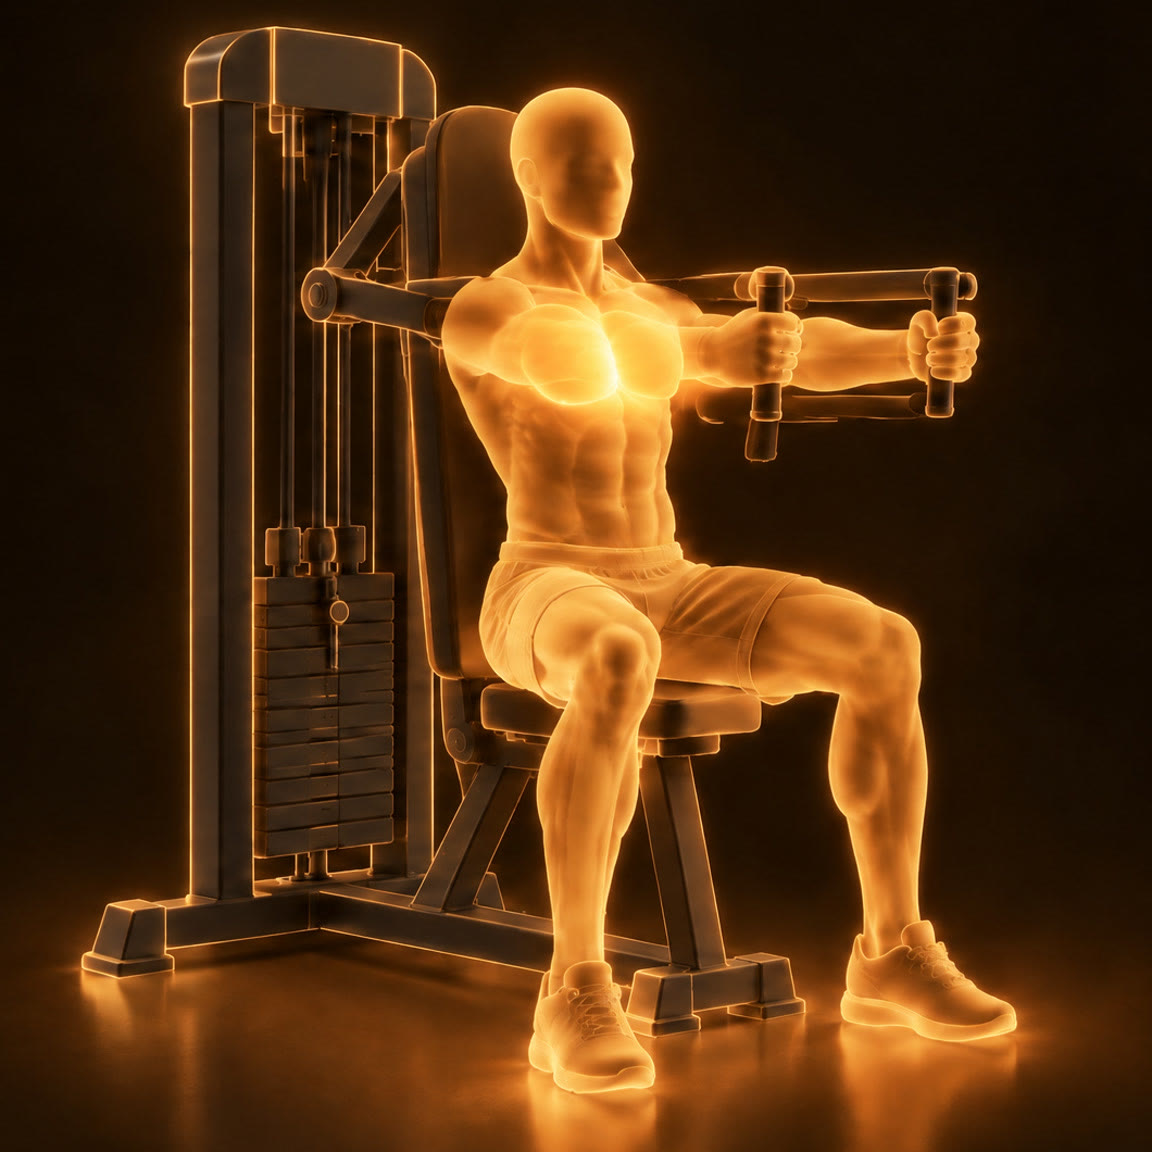
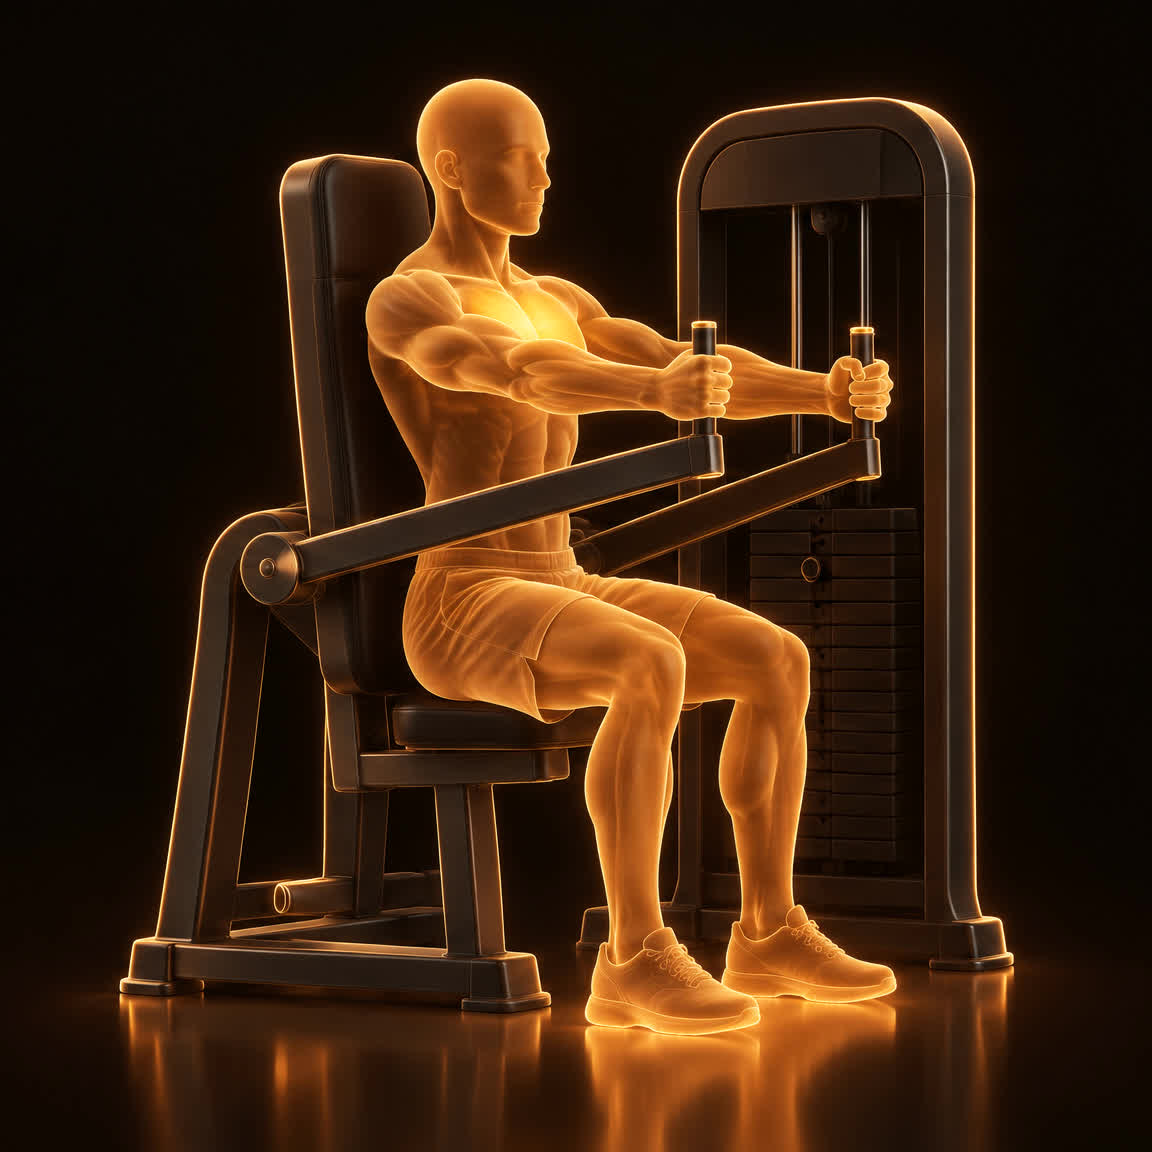
Test of the saved figure (Higgsfield element amber-figure, made from the three 3 Nov frames): x100 one-arm cable curl and x7 seated chest press, both of which failed before. 2 credits. Free hue/saturation pass to EARLY.

diff --git a/exercise-sheets/unify.html b/exercise-sheets/unify.html
@@ -2,9 +2,9 @@
 <style>:root{--bg:#120d07;--fg:#f3e6cf;--mut:#b9a888;--line:#3a2f20}*{box-sizing:border-box}body{margin:0;padding:16px;background:var(--bg);color:var(--fg);font:15px/1.5 system-ui,sans-serif;overflow-x:hidden}
 h1{font-size:21px;margin:24px 0 4px}h1:first-child{margin-top:0}p{color:var(--mut);margin:0 0 12px}h2{font-size:17px;margin:22px 0 8px;border-top:1px solid var(--line);padding-top:12px;overflow-wrap:anywhere}h2 small{color:var(--mut);font-weight:400;font-size:13px}
 .row{display:grid;grid-template-columns:minmax(0,1fr) minmax(0,1fr);gap:8px}.one{max-width:420px}figure{margin:0;min-width:0}img{max-width:100%;width:100%;display:block;border-radius:6px}figcaption{color:var(--mut);font-size:13px;margin-top:2px}</style></head><body>
-<h1>מחכה לאישור: x7</h1>
-<section><h2>לחיצת חזה במכונה <small>x7 · Chest Press Machine</small></h2><p>הקודמת הייתה לחיצת מוט על ספסל ליד מתקן שלא מחזיק את המוט - אבל התרגיל בספרייה הוא <b>לחיצת חזה במכונה בישיבה</b>. נבנה מחדש: גב צמוד למשענת, ידיות בגובה אמצע החזה, דחיפה קדימה.</p><div class="row"><figure><img src="unify/x7/start.jpg"><figcaption>התחלה</figcaption></figure><figure><img src="unify/x7/end.jpg"><figcaption>סוף</figcaption></figure></div></section>
-
+<h1>בדיקה: הדמות השמורה</h1><p>הדמות של 3.11 שמורה עכשיו ב-Higgsfield כ"אלמנט", וכל תמונה מושכת אותה משם במקום לנחש אותה מחדש. שני התרגילים שנכשלו אצלנו קודם - בלי המודל התלת-ממדי. תשווה לשמונה שאישרת למטה: האם זו אותה דמות?</p>
+<section><h2>כפיפת מרפק ביד אחת בכבל <small>x100 · One-Arm Cable Curl</small></h2><p>ידית אחת, היד השנייה ריקה ולא זזה.</p><div class="row"><figure><img src="unify/x100/start.jpg"><figcaption>התחלה</figcaption></figure><figure><img src="unify/x100/end.jpg"><figcaption>סוף</figcaption></figure></div></section>
+<section><h2>לחיצת חזה במכונה <small>x7 · Chest Press Machine</small></h2><p>מכונה בישיבה. רק הידיים והזרועות של המכונה זזות.</p><div class="row"><figure><img src="unify/x7/start.jpg"><figcaption>התחלה</figcaption></figure><figure><img src="unify/x7/end.jpg"><figcaption>סוף</figcaption></figure></div></section>
 <h1>אושרו והוחלפו ב-dev (8)</h1><p>הדמות של 3.11, הזוהר החזק יותר, והציוד בגרפיט כהה. הפריימים נשמרים כדי להפוך אותם בהמשך לתנועה.</p>
 <section><h2>לחיצת חזה על הרצפה <small>x10 · Floor Press</small></h2><div class="one"><img src="unify/x10/anim.gif" loading="lazy"></div></section>
 <section><h2>סקאל קראשר <small>x112 · Skull Crushers</small></h2><div class="one"><img src="unify/x112/anim.gif" loading="lazy"></div></section>
